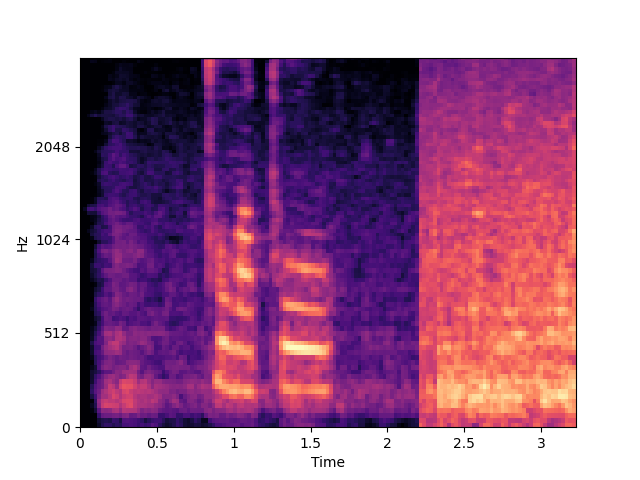
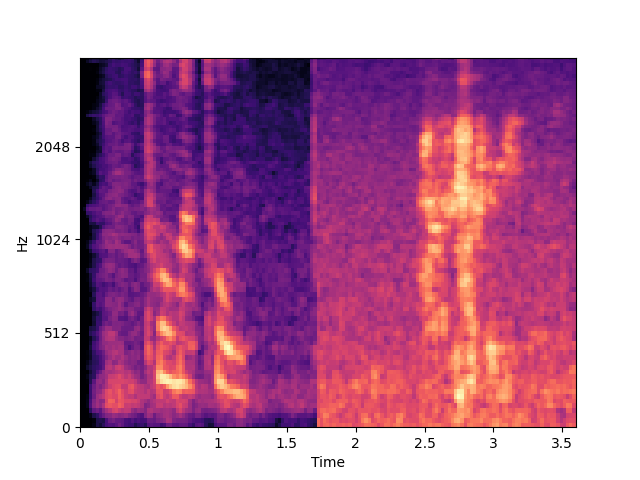
파일 정리

diff --git a/static/js/login.js b/static/js/login.js
@@ -1,6 +1,5 @@
 // 엘리먼트 취득
 //const $audioEl = document.querySelector("audio");
-const submit = document.getElementById("submit")
 const login = document.getElementById("login")
 const pwd = document.getElementById("pwd");
 const id = document.getElementById("id")
@@ -55,10 +54,11 @@ pwd.onclick = async function (event) {
         console.log("recording stop");
         pwd.style.backgroundColor = 'lightGray';
         isRecording = false;
+        login.disabled = false;
     }
 }
 
-submit.onclick = async function(event) {
+login.onclick = async function(event) {
     console.log("Audio being exported.")
     var filename = id.value + ".wav";
     // console.log(filename)
@@ -66,14 +66,11 @@ submit.onclick = async function(event) {
     let fd = new FormData();
     fd.append('audio_data', blob, filename);
     fd.append('id', id.value);
-    fd.append('cnt', num);
     console.log(fd)
 
-    fetch('http://127.0.0.1:5000/upload', {method:'POST', body: fd})
+    fetch('http://127.0.0.1:5000/login/upload', {method:'POST', body: fd})
     .then((res) => {
-        //window.location.reload()
         res.json()
-        login.disabled = false;
     })
     .catch((error) => {
         console.log(error);

diff --git a/static/js/signup.js b/static/js/signup.js
@@ -70,7 +70,7 @@ submit.onclick = async function(event) {
     fd.append('cnt', num);
     console.log(fd)
 
-    fetch('http://127.0.0.1:5000/upload', {method:'POST', body: fd})
+    fetch('http://127.0.0.1:5000/signup/upload', {method:'POST', body: fd})
     .then((res) => {
         //window.location.reload()
         res.json()
@@ -98,6 +98,6 @@ function check(){
         submit.value = '3차 입력';
     }
     else if(submit.value == '3차 입력'){
-        submit.value = '제출하세요';
+        submit.value = '제출';
     }
 }

diff --git a/server.py b/server.py
@@ -16,16 +16,34 @@ def main():
 def login():
     return render_template("login.html")
 
+@app.route("/login/upload", methods=['POST'])
+def login_upload():
+    if(request.method=='POST'):
+        data = request.files['audio_data']
+        id = request.form['id']
+        path = './static/loginInfo/' + id + '/'
+        if not os.path.isdir(path) :
+            os.makedirs(path)
+        
+        data.save(path + secure_filename(data.filename))
+        files = os.listdir("static/loginInfo")
+        pwd = voice.transformOne(data.filename, id)
+        print(pwd)
+        print("현재 디렉토리 위치 : ", os.getcwd())
+        #dbconn.database().signup(id, pwd) -> 이거 말고 db에서 비밀번호 select 확인하는 구문 필요한데..
+        return jsonify({'host': '127.0.0.1', 'port': '5000'})
+
+
 @app.route("/signup", methods=['POST', 'GET'])
 def signup():
     return render_template("signup.html")
 
 @app.route("/signup/success", methods=['GET'])
-def upload_success():
+def signup_success():
     return render_template('check.html')
 
-@app.route("/upload", methods=['POST'])
-def upload():
+@app.route("/signup/upload", methods=['POST'])
+def signup_upload():
     if(request.method=='POST'):
         data = request.files['audio_data']
         id = request.form['id']

diff --git a/voice.py b/voice.py
@@ -17,3 +17,17 @@ def transform(filename, id, cnt):
     plt.savefig(pwd)
     os.remove(filename)
     os.chdir("../../../") #원래 디렉토리 위치로 이동
+
+def transformOne(filename, id):
+    os.chdir("./static/loginInfo/" + id)
+    print(os.getcwd())
+    pwd = id + '.png'
+    signal, sr = librosa.load(filename)
+    S_octave = librosa.feature.melspectrogram(signal, sr=sr, n_mels=128)
+    librosa.display.specshow(librosa.power_to_db(S_octave, ref=np.max), sr=sr, y_axis='mel', x_axis='time')
+    plt.ylim(0, 4000)
+    plt.savefig(pwd)
+    os.remove(filename)
+    os.chdir("../../../") #원래 디렉토리 위치로 이동
+
+    return pwd

diff --git a/train.py b/train.py
@@ -1,0 +1,15 @@
+import torchvision
+import torchvision.datasets as dset
+import torchvision.transforms as transforms
+from torch.utils.data import DataLoader,Dataset
+import matplotlib.pyplot as plt
+import torchvision.utils
+import numpy as np
+import random
+from PIL import Image
+import torch
+from torch.autograd import Variable
+import PIL.ImageOps    
+import torch.nn as nn
+from torch import optim
+import torch.nn.functional as F
